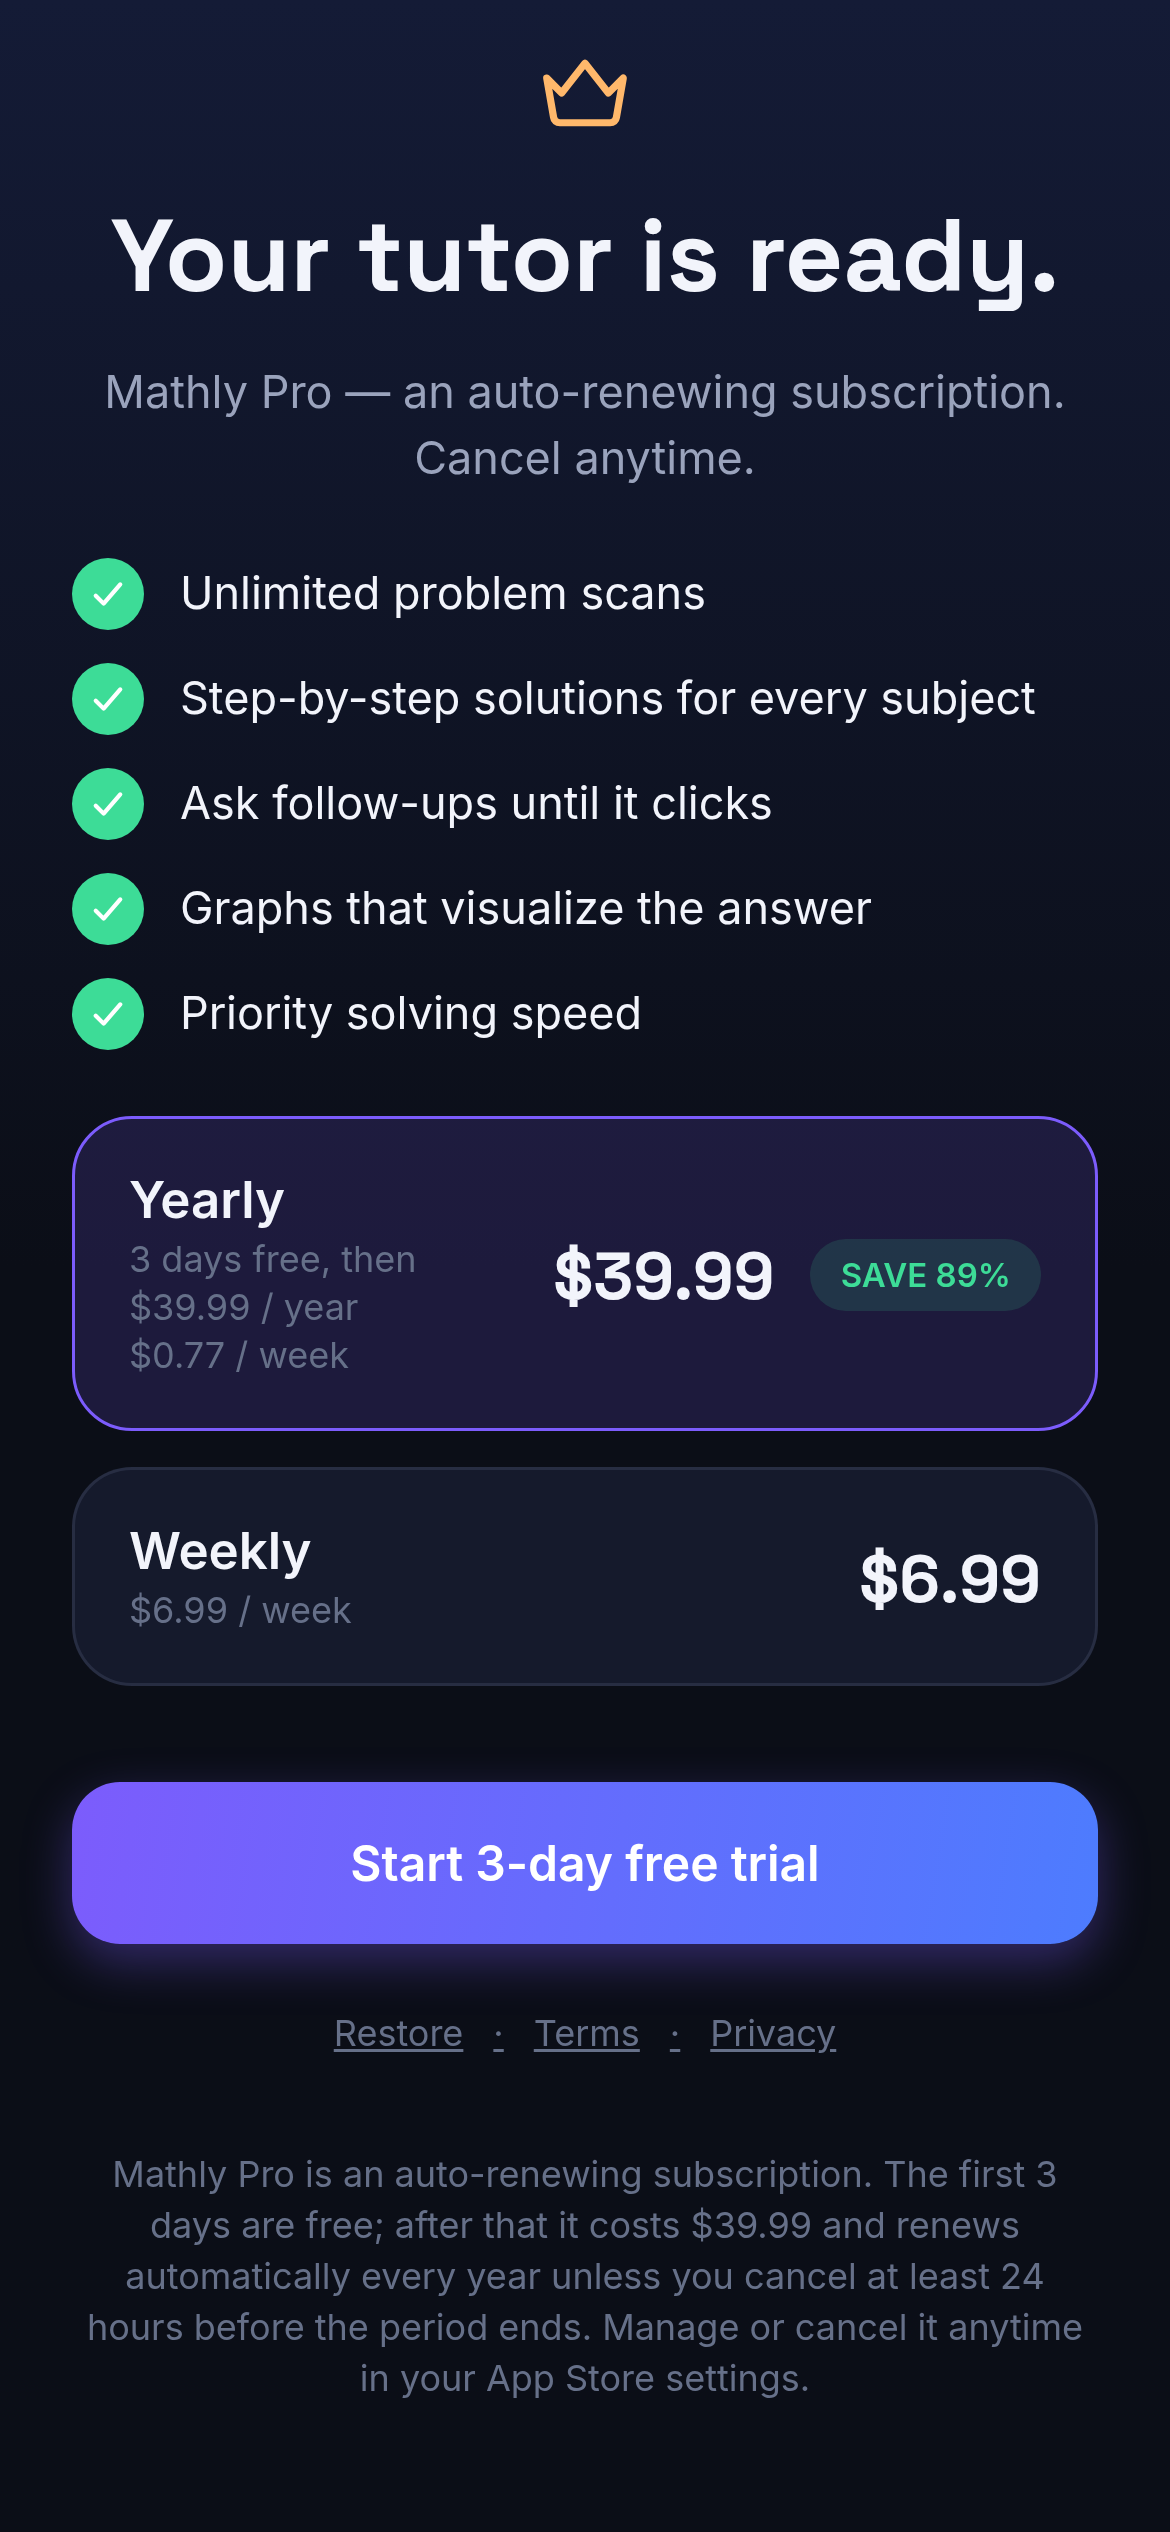
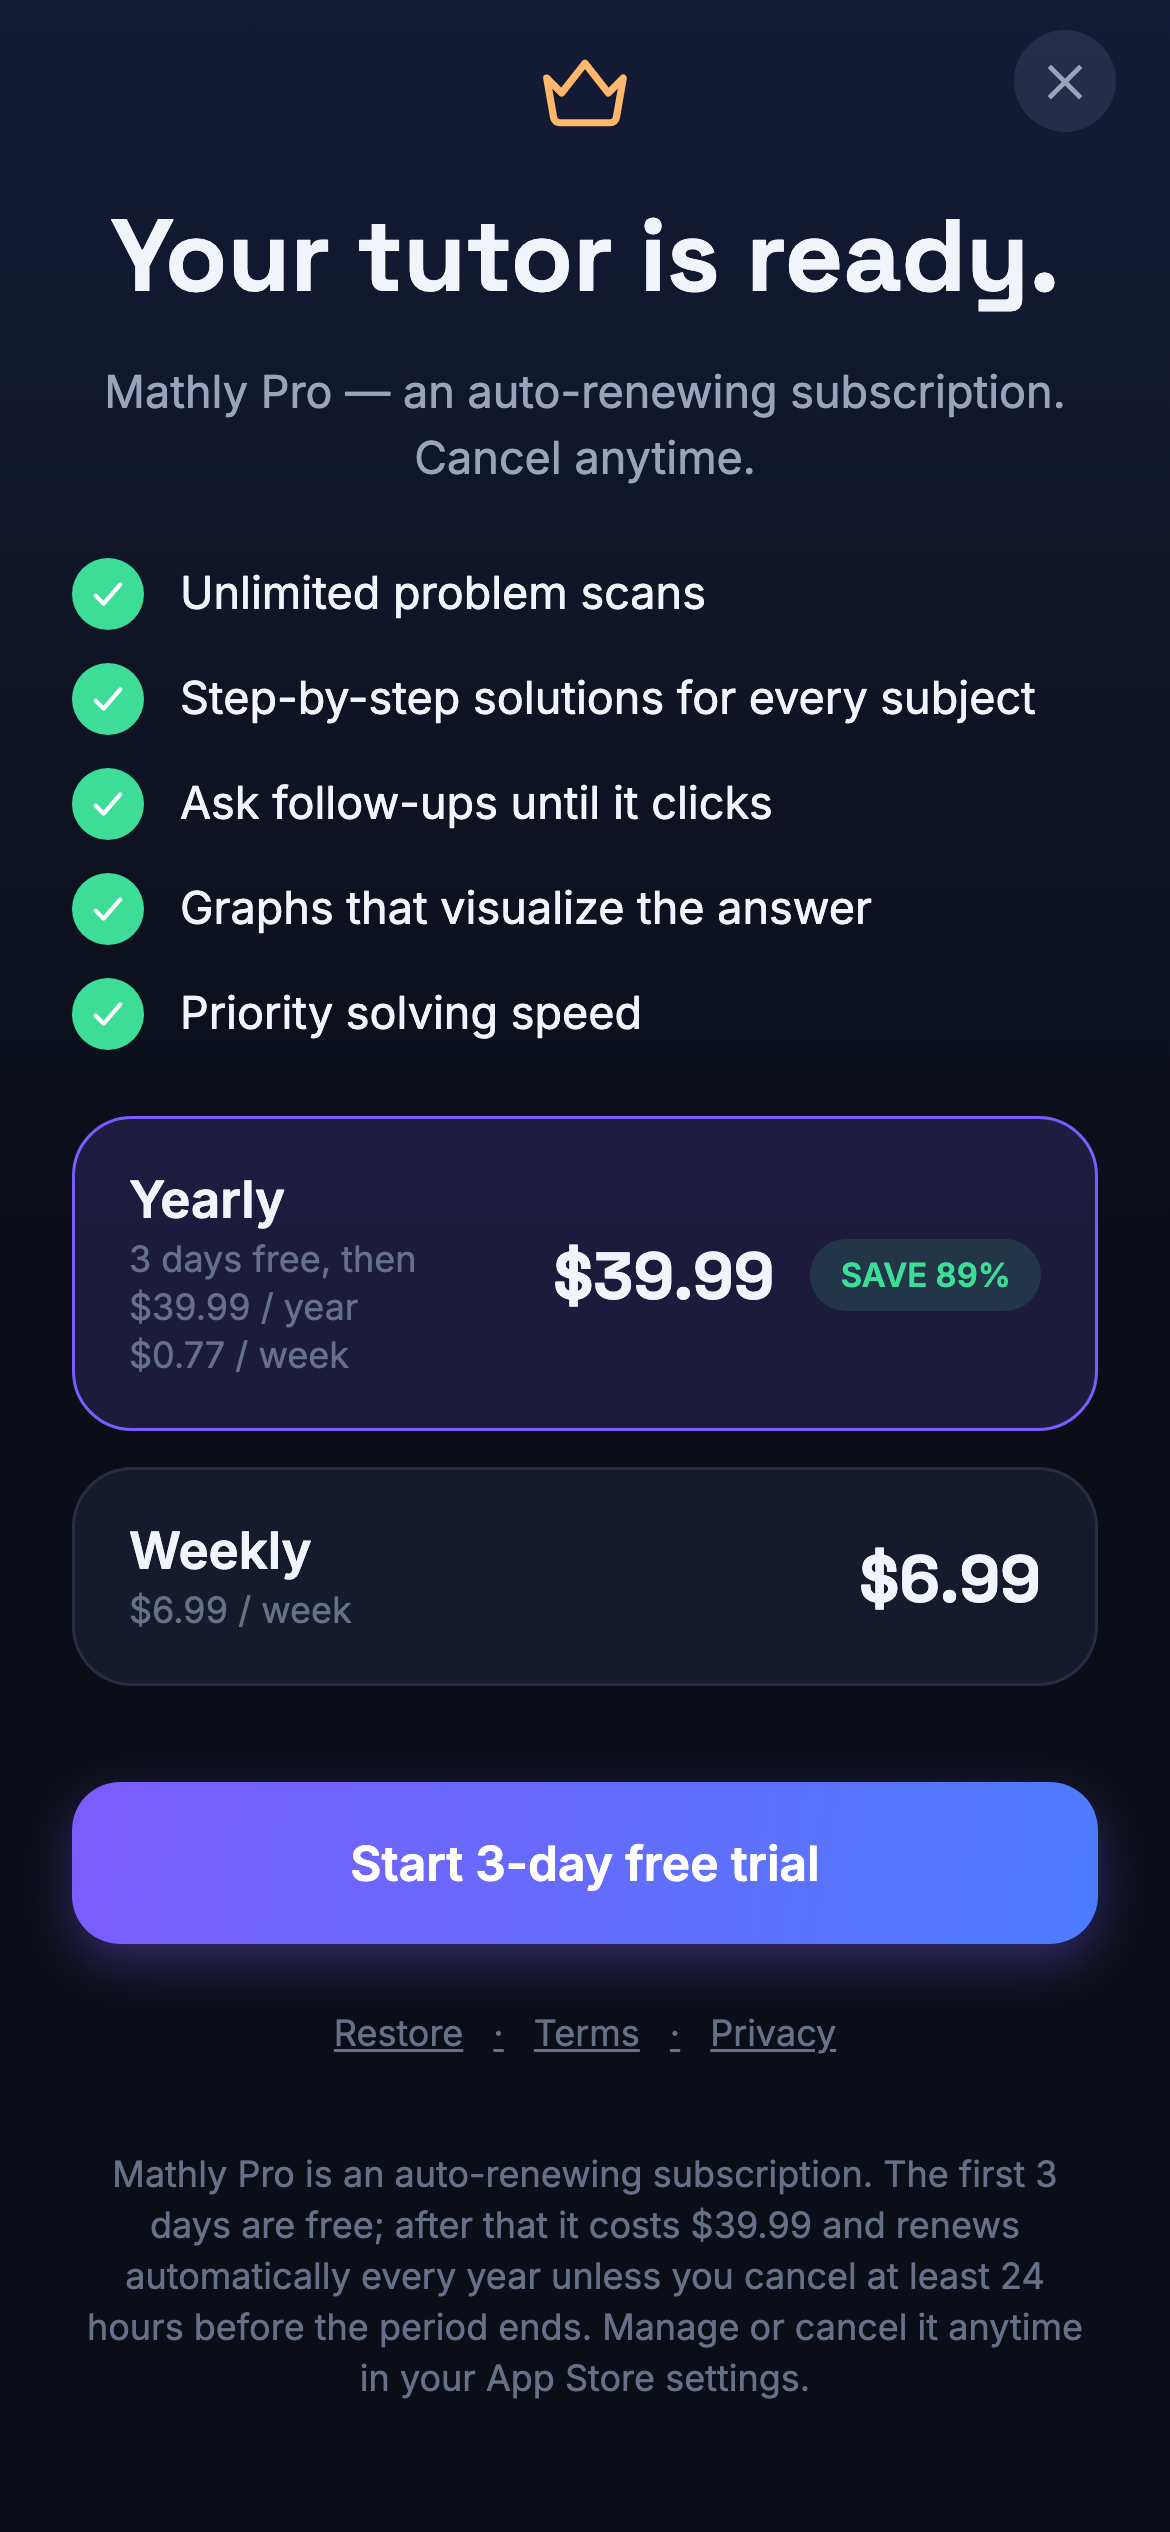
Disclose third-party AI processing in-app (Apple 5.1.2(i))
The app sends problem photos, typed problems and chat messages to OpenAI
via the solving API. Apple's 5.1.2(i) requires clearly disclosing sharing
with third-party AI and obtaining permission before it happens — the
policy documents it but the app itself never did.

- Welcome screen: consent note above Get started with Terms/Privacy links
- Scan home: disclosure at the submission point with Privacy Policy link
- Chat: disclosure in the empty state
- e2e: assert the disclosure on welcome, scan home (free + pro) and chat
- docs: App Privacy checklist adds Device ID (matches the privacy
  manifest); review notes mention the OpenAI flow; privacy policy names
  OpenAI and RevenueCat's per-device identifier, rating corrected to 4+
- iap-review paywall screenshot recaptured with the close button

Changed region(s): [[0.3385, 0.8736, 0.3692, 0.9048]]

diff --git a/src/screens/OnboardingScreen.tsx b/src/screens/OnboardingScreen.tsx
@@ -15,6 +15,7 @@ import { useAppNavigation } from '../navigation';
 import { Button } from '../components/ui';
 import { CheckIcon, ScanIcon, SparkIcon } from '../components/icons';
 import { QUIZ_STEPS, type QuizOption } from '../config/onboarding';
+import { openLegalLink } from '../lib/links';
 import { colors, gradients, radius, typography } from '../theme/tokens';
 import { useApp } from '../state/AppProvider';
 import type { OnboardingProfile } from '../types';
@@ -180,10 +181,35 @@ function Welcome({ onStart, returning }: { onStart: () => void; returning: boole
             <SparkIcon size={16} color={colors.accent} />
             <Text style={typography.caption}>2M+ problems solved this month</Text>
           </View>
-          <Button label={returning ? 'Set up my tutor again' : 'Get started'} onPress={onStart} />
-          <Pressable onPress={onStart} accessibilityRole="button" accessibilityLabel="I already have an account">
-            <Text style={[typography.caption, { textAlign: 'center' }]}>I already have an account</Text>
-          </Pressable>
+          {/* 5.1.2(i): the permission moment — the AI hand-off is disclosed
+              directly above the action that accepts it, with both legal pages
+              one tap away. */}
+          <View style={{ gap: 14 }}>
+            <Text style={styles.consentNote}>
+              By continuing you agree to our{' '}
+              <Text
+                style={styles.consentLink}
+                onPress={() => openLegalLink('terms')}
+                accessibilityRole="link"
+              >
+                Terms of Use
+              </Text>{' '}
+              and{' '}
+              <Text
+                style={styles.consentLink}
+                onPress={() => openLegalLink('privacy')}
+                accessibilityRole="link"
+              >
+                Privacy Policy
+              </Text>
+              . Problems you submit are processed by an AI service (OpenAI),
+              solely to generate your solutions.
+            </Text>
+            <Button label={returning ? 'Set up my tutor again' : 'Get started'} onPress={onStart} />
+            <Pressable onPress={onStart} accessibilityRole="button" accessibilityLabel="I already have an account">
+              <Text style={[typography.caption, { textAlign: 'center' }]}>I already have an account</Text>
+            </Pressable>
+          </View>
         </View>
       </View>
     </LinearGradient>
@@ -293,4 +319,12 @@ const styles = StyleSheet.create({
   },
   proofRow: { flexDirection: 'row', alignItems: 'center', gap: 8, justifyContent: 'center' },
   buildRow: { flexDirection: 'row', alignItems: 'center', gap: 14 },
+  consentNote: {
+    ...typography.caption,
+    color: colors.textTertiary,
+    textAlign: 'center',
+    lineHeight: 16,
+    paddingHorizontal: 12,
+  },
+  consentLink: { color: colors.textSecondary, textDecorationLine: 'underline' },
 });

diff --git a/src/screens/ScanHomeScreen.tsx b/src/screens/ScanHomeScreen.tsx
@@ -12,6 +12,7 @@ import { LinearGradient } from 'expo-linear-gradient';
 import { useAppNavigation } from '../navigation';
 
 import { CameraIcon, ChevronRight, ScanIcon, SparkIcon } from '../components/icons';
+import { openLegalLink } from '../lib/links';
 import { SUBJECTS, subjectMeta } from '../theme/subjects';
 import { colors, gradients, radius, typography } from '../theme/tokens';
 import { useApp } from '../state/AppProvider';
@@ -81,6 +82,20 @@ export function ScanHomeScreen() {
             <ScanIcon size={20} color="#fff" />
           </Pressable>
         </View>
+
+        {/* 5.1.2(i): the disclosure sits at the exact point where a problem
+            first leaves the device, for both entry paths (scan + typed). */}
+        <Text style={[typography.caption, styles.aiNote]}>
+          Problems you scan or type are processed by an AI service (OpenAI) to
+          generate answers.{' '}
+          <Text
+            style={[typography.caption, styles.aiNoteLink]}
+            onPress={() => openLegalLink('privacy')}
+            accessibilityRole="link"
+          >
+            Privacy Policy
+          </Text>
+        </Text>
 
         <Text style={[typography.small, styles.sectionLabel]}>SUBJECTS</Text>
         <ScrollView horizontal showsHorizontalScrollIndicator={false} contentContainerStyle={{ gap: 8 }}>
@@ -196,6 +211,8 @@ const styles = StyleSheet.create({
     justifyContent: 'center',
   },
   sectionLabel: { letterSpacing: 0.14, fontWeight: '700', marginTop: 8 },
+  aiNote: { color: colors.textTertiary, marginTop: -4, lineHeight: 16 },
+  aiNoteLink: { color: colors.textSecondary, textDecorationLine: 'underline' },
   subjectChip: {
     flexDirection: 'row',
     alignItems: 'center',

diff --git a/e2e/full-flow.spec.ts b/e2e/full-flow.spec.ts
@@ -15,6 +15,8 @@ test('onboarding → paywall → solve → follow-up → history → chat', asyn
   await testPurchase.waitFor({ timeout: 20_000 });
   await testPurchase.click();
   await page.getByText('Ready to solve?').waitFor({ timeout: 30_000 });
+  // 5.1.2(i) guard: scan home discloses the AI hand-off at the submission point.
+  await page.getByText(/scan or type are processed by an AI service/).waitFor();
 
   // Scan → test photo → solution (stubbed API)
   await page.getByRole('button', { name: 'Scan a problem' }).click();
@@ -44,6 +46,7 @@ test('onboarding → paywall → solve → follow-up → history → chat', asyn
 
   // Chat
   await page.getByRole('tab', { name: 'Chat' }).click();
+  await page.getByText(/Messages are processed by an AI service/).waitFor();
   await page.getByRole('button', { name: 'Explain the quadratic formula' }).click();
   await page.getByText('Think of the ± sign', { exact: false }).waitFor({ timeout: 30_000 });
 

diff --git a/src/screens/ChatScreen.tsx b/src/screens/ChatScreen.tsx
@@ -104,6 +104,11 @@ export function ChatScreen() {
                 </Pressable>
               ))}
             </View>
+            {/* 5.1.2(i): chat is the third path that sends user content to the
+                AI service — name it where the messages are written. */}
+            <Text style={[typography.caption, styles.aiNote]}>
+              Messages are processed by an AI service (OpenAI) to answer your questions.
+            </Text>
           </View>
         ) : (
           <View style={{ flex: 1 }}>
@@ -192,6 +197,7 @@ const styles = StyleSheet.create({
     marginBottom: 4,
   },
   empty: { flex: 1, alignItems: 'center', justifyContent: 'center', padding: 32 },
+  aiNote: { textAlign: 'center', marginTop: 18, color: colors.textTertiary, lineHeight: 16 },
   starters: { flexDirection: 'row', flexWrap: 'wrap', gap: 8, justifyContent: 'center', marginTop: 22 },
   starter: {
     borderWidth: 1,

diff --git a/e2e/checkout.spec.ts b/e2e/checkout.spec.ts
@@ -93,6 +93,8 @@ test('the paywall can be dismissed and checkout still works from Settings', asyn
   // Escape hatch: nobody gets trapped behind a failing purchase.
   await page.getByTestId('paywall-close').click();
   await page.getByText('Ready to solve?').waitFor({ timeout: 30_000 });
+  // The AI disclosure is visible in the free, non-Pro state too.
+  await page.getByText(/scan or type are processed by an AI service/).waitFor();
 
   await page.getByRole('tab', { name: 'Settings' }).click();
   await page.getByRole('button', { name: 'Upgrade to Mathly Pro' }).click();

diff --git a/e2e/helpers/onboarding.ts b/e2e/helpers/onboarding.ts
@@ -11,6 +11,9 @@ export async function completeOnboarding(page: Page): Promise<void> {
 
   // Welcome
   await page.getByText('Math that finally').waitFor({ timeout: 90_000 });
+  // 5.1.2(i) guard: the third-party AI disclosure must be on the welcome
+  // screen, above the button the user taps to continue.
+  await page.getByText(/processed by an AI service \(OpenAI\)/).waitFor();
   await page.getByRole('button', { name: 'Get started' }).click();
 
   // Quiz

diff --git a/docs/app-store-connect.md b/docs/app-store-connect.md
@@ -188,9 +188,9 @@ App Store Connect → your app → **Version 1.0.0**:
 | Category | Education (secondary: Productivity) |
 | Age Rating | answer quiz → 4+ (no user content, no web browsing) |
 | Price | with IAP: price tier Free |
-| App Privacy | collect: *Photos or Videos* + *Purchase History* (both = app functionality, not linked for photos / linked for purchases), no tracking |
+| App Privacy | collect: *Photos or Videos* (App Functionality, not linked) + *Purchase History* (App Functionality, linked) + **Device ID** (App Functionality, linked — RevenueCat's random per-device identifier). No tracking. These three must match the `app.json` privacy manifest exactly |
 | Export Compliance | uses HTTPS only → set `ITSAppUsesNonExemptEncryption=false` (already in `app.json`); answer "uses standard encryption, exempt" |
-| Review notes | "Point the camera at any math problem — e.g. a textbook page. No account needed. Subscription: Mathly Pro yearly/weekly with 3-day trial." Add a short demo video link if handy. |
+| Review notes | "Point the camera at any math problem — e.g. a textbook page. No account needed. Problem photos and typed questions are sent to OpenAI to generate solutions — disclosed in-app on the welcome screen and scan home before first use (5.1.2). Subscription: Mathly Pro yearly/weekly with 3-day trial." Add a short demo video link if handy. |
 
 Run `npm run metadata:preflight` (step 6b), clear anything it marks ✗, then
 **Submit for Review**. Typical first-review turnaround: 24–48h.
@@ -212,6 +212,11 @@ Run `npm run metadata:preflight` (step 6b), clear anything it marks ✗, then
   **Run the push before every submission**: editing `docs/` changes nothing
   that review sees, which is exactly how the first 3.1.2 rejection happened.
 - ✅ No signup wall — app usable (scan + solve) after onboarding
+- ✅ Third-party AI disclosure (5.1.2(i)): the welcome screen, scan home and
+  chat all state that submitted problems/messages are processed by an AI
+  service (OpenAI), with Terms/Privacy links — and `docs/privacy-policy.md`
+  names OpenAI too. If you ever swap AI providers, update all four places in
+  the same commit
 - ⚠ **Sign in required? No.** Leave as-is.
 - ⚠ If IAP products are missing/invalid in App Store Connect (step 5), review
   will reject with Guideline 2.1 — do step 5 before submitting.

diff --git a/docs/privacy-policy.md b/docs/privacy-policy.md
@@ -1,6 +1,6 @@
 # Mathly Privacy Policy
 
-_Last updated: 2026-08-14_
+_Last updated: 2026-08-24_
 
 Mathly ("we", "our") is an AI math tutor app. This policy explains what data
 the app handles and why. The short version: your problem photos go to our AI
@@ -25,14 +25,17 @@ When you scan or type a problem:
 - Your level and explanation-style preferences, so the answer is pitched right
 - Follow-up questions and the problem context needed to answer them
 
-Photos are transmitted over HTTPS, used only to produce your solution, and are
-not retained after the request completes. Chat history is stored on your
-device only — we do not keep a server-side copy.
+Photos are transmitted over HTTPS to our AI provider (OpenAI), used only to
+produce your solution, and are not retained after the request completes. Chat
+messages and your level/style preferences travel with the same request and are
+handled the same way. Chat history is stored on
+your device only — we do not keep a server-side copy.
 
 ## Purchases
 
 Subscriptions are processed entirely by Apple App Store / Google Play. We
-receive anonymized purchase status (via RevenueCat) to unlock Pro features.
+receive anonymized purchase status (via RevenueCat) — which includes a random
+per-device identifier, not tied to your name — to unlock Pro features.
 We never see or store your payment details.
 
 ## What we do NOT do
@@ -44,7 +47,7 @@ We never see or store your payment details.
 
 ## Children's privacy
 
-Mathly is rated 3+ / Everyone and asks for no personal information from any
+Mathly is rated 4+ / Everyone and asks for no personal information from any
 user, including children.
 
 ## Your rights
